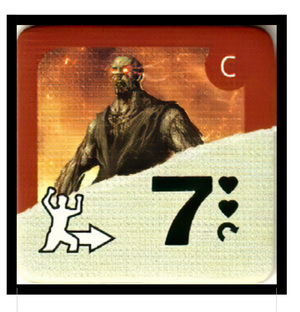
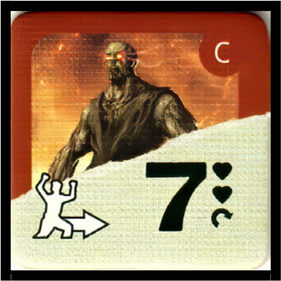
Opciones, rutas al mapa, vuelo del Súper Zed y fixes de movimiento
Mejoras: menú Opciones con arte alternativo; aviso y vuelo animado del Súper Zed; seis botones de ruta bajo el mapa.
Fixes: fichas Súper Zed sin borde blanco; «Han picado» después de las habilidades; cámara en la lluvia y en la elección de unidad. BUILD_TIME y CHANGELOG.

diff --git a/js/ui.js b/js/ui.js
@@ -47,7 +47,7 @@ const ui = {
     window.addEventListener('resize', () => this.arrange());
     $('evimg').addEventListener('click', () => { if (G.event) ui.waitAck(G.event.name, G.event.txt.join('<br>'), 'assets/cartas/e_' + G.event.id + '.jpg', 'e:' + G.event.id); });
     $('fastChk').addEventListener('change', e => { ui.fast = e.target.checked; if (ui.fast) ui.release(); });
-    $('soundBtn').addEventListener('click', () => ui.showSound());
+    $('optionsBtn').addEventListener('click', () => ui.showOptions());
     $('logBtn').addEventListener('click', () => downloadLog());
     $('camChk').addEventListener('change', e => { ui.camOn = e.target.checked; if (!ui.camOn) ui.release(); });
     $('cancelBtn').addEventListener('click', () => ui.cancelMode());
@@ -96,7 +96,8 @@ const ui = {
   setMap(board) { this.board = board; this.mapH = board === 'B' ? 1541 : 1545; this.canvas.height = this.mapH; this.fit(); },
   fit() {
     const w = $('mapwrap'); if (!w) return;
-    const k = Math.max(0.1, Math.min((w.clientWidth - 12) / 2000, (w.clientHeight - 12) / this.mapH));
+    const rb = $('routebtns'), bh = rb ? rb.offsetHeight + 6 : 0;
+    const k = Math.max(0.1, Math.min((w.clientWidth - 12) / 2000, (w.clientHeight - 12 - bh) / this.mapH));
     this.canvas.style.width = Math.floor(2000 * k) + 'px'; this.canvas.style.height = Math.floor(this.mapH * k) + 'px';
     if (this.applyView) { this.clampView(); if (!this.camZoom || this.camZoom <= 1) this.applyView(); }
   },
@@ -428,6 +429,40 @@ const ui = {
     });
   },
   confirm(text) { return this.choose({ title: 'Confirmar', text, options: [{ label: 'Sí', value: true }, { label: 'No', value: false }] }); },
+  /* Súper Zed: la ficha aparece en grande en el centro con su nombre y su efecto (OK). Al pulsar OK vuela a su espacio y solo entonces se coloca.
+     Con «Animaciones rápidas» no vuela: se muestra la información igual y se coloca al pulsar OK. */
+  superIntro(zed, target) {
+    return new Promise(res => {
+      const d = SUPER_ZEDS[zed.key] || { name: zed.name, txt: '', img: null };
+      const ov = document.createElement('div'); ov.className = 'superfx';
+      ov.innerHTML = '<div class="sfx-tok"><img src="assets/tokens/' + (d.img || 'sz_lobo') + '.png" alt=""></div>' +
+        '<div class="sfx-info" hidden><h2>' + d.name + '</h2><p>' + d.txt + '</p><button class="primary" id="sfxOk">OK</button></div>';
+      document.body.appendChild(ov);
+      const tok = ov.querySelector('.sfx-tok'), info = ov.querySelector('.sfx-info');
+      setTimeout(() => { info.hidden = false; }, 900);
+      const finish = () => { ov.remove(); res(); };
+      $('sfxOk').onclick = () => {
+        info.hidden = true;
+        const dest = target && G.spaces[target];
+        if (this.fast || !dest) { finish(); return; }
+        /* Vuelo por fotogramas: la ficha va al espacio de destino donde esté en pantalla en cada fotograma. El mapa no hace zoom ni se mueve. */
+        const cv = this.canvas, dur = 1600, ease = t => t < .5 ? 4 * t * t * t : 1 - Math.pow(-2 * t + 2, 3) / 2;
+        const live = () => { const r = cv.getBoundingClientRect(), k = r.width / cv.width; return { x: r.left + dest.x * k, y: r.top + dest.y * k }; };
+        const cx = window.innerWidth / 2, cy = window.innerHeight / 2;
+        tok.style.animation = 'none';
+        const t0 = performance.now();
+        const step = now => {
+          const t = Math.min(1, (now - t0) / dur), e = ease(t), p = live();
+          const x = cx + (p.x - cx) * e, y = cy + (p.y - cy) * e - Math.sin(Math.PI * e) * 70;
+          tok.style.transform = 'translate(' + (x - cx) + 'px,' + (y - cy) + 'px) scale(' + (1 - .86 * e) + ')';
+          ov.style.background = 'rgba(0,0,0,' + (.82 * (1 - e)).toFixed(3) + ')';
+          if (t < 1) requestAnimationFrame(step);
+          else finish();
+        };
+        requestAnimationFrame(step);
+      };
+    });
+  },
   waitAck(title, text, img, spec) {
     return new Promise(res => {
       const im = img ? '<img src="' + img + '" alt="" ' + (spec ? 'data-zoom="' + spec + '"' : '') + '>' : '';
@@ -442,6 +477,8 @@ const ui = {
       const b = this._modal('<h2>Elige una unidad</h2><p>' + text + '</p><div class="pickhint">Toca una opción (o la unidad en el mapa) para verla; pulsa Aceptar para confirmar.</div><div class="pickopts"></div><div class="opts"><button class="primary" id="pkok" disabled>Aceptar</button>' + (cancel ? '<button id="pkcancel">Cancelar</button>' : '') + '</div>', 'pickpanel');
       $('modal').classList.add('pick');
       const box = b.querySelector('.pickopts'); let cur = null, focused = false;
+      /* La cámara va a la primera unidad en cuanto aparece la pregunta, sin esperar a que se elija en la lista. */
+      const first = units.find(u => u.space); if (first) { this.focus(first.space); focused = !!(this.camOn && !this.fast); }
       const done = id => { this._pick = null; this.hl = null; if (focused) this.release(); this._close(); this.redraw(); res(id); };
       const select = id => {
         cur = id; this.hl = id; $('pkok').disabled = false;
@@ -666,15 +703,11 @@ const ui = {
       $('vol_' + k).oninput = e => { $('pct_' + k).textContent = e.target.value + '%'; Sound.set(k, { vol: e.target.value / 100 }); };
     });
   },
-  showSound() {
-    this._modal('<h2>Sonido</h2><p>Cada canal tiene su propio interruptor y volumen.</p>' + this._soundRows() + '<div class="opts"><button class="primary" id="sndOk">Cerrar</button></div>', 'sound');
-    this._bindSound(); $('sndOk').onclick = () => ui._close();
-  },
-  /* Menú de opciones de la portada: sonido y arte alternativo. */
+  /* Menú Opciones de la portada (antes «Sonido»): sonido y arte alternativo. */
   showOptions() {
     this._modal('<h2>Opciones</h2><h3 class="oph">Sonido</h3><p>Cada canal tiene su propio interruptor y volumen.</p>' + this._soundRows() +
       '<h3 class="oph">Arte</h3><div class="snd"><label class="chk"><input type="checkbox" id="optArt"' + (Opciones.artAlt ? ' checked' : '') + '> Usar arte alternativo</label></div>' +
-      '<p class="ophint">Las ilustraciones alternativas de cartas y fichas se aplicarán cuando estén disponibles.</p>' +
+      '<p class="ophint">Cambia las ilustraciones de cartas, fichas y obituario por el arte alternativo.</p>' +
       '<div class="opts"><button class="primary" id="sndOk">Cerrar</button></div>', 'sound');
     this._bindSound();
     $('optArt').onchange = e => { Opciones.set({ artAlt: e.target.checked }); loadAltArt().then(() => ui.redraw()); };

diff --git a/js/phases.js b/js/phases.js
@@ -57,11 +57,20 @@ async function mineAttack(dest, movers) {
   LOG('¡Campo de Minas! Ataque de Fuerza ' + str + ' (' + (a + b) + '): ' + hits + ' Impacto(s).', 'good');
   s.mine = s.mine === 1 ? 2 : 0; await applyZedHits(movers.filter(z => z.space === dest), hits);
 }
+/* Carta «¡Sí! Han picado…»: cancela la activación del grupo que está en `from`. Solo se llama cuando las habilidades ya no lo han detenido,
+   porque la carta es el último recurso (las habilidades son gratis). */
+async function playPicado(from) {
+  if (!G.hand.includes('picado')) return false;
+  const gr = zedsAt(from).filter(z => !z.moved); if (!gr.length) return false;
+  const v = await UI.askZeds({ title: '«¡Sí! Han picado…»', text: '¿Cancelas la activación de ' + zedGroupName(gr, from) + '?', spaces: [from], options: [{ label: 'Cancelar', value: 'y' }, { label: 'No', value: 'n' }] }); if (v === 'y') { G.hand.splice(G.hand.indexOf('picado'), 1); zenPlayed(); UI.updateHand(); if (d6() <= 3) G.destDiscard.push('picado'); else G.hand.push('picado'); UI.updateHand(); gr.forEach(z => z.moved = true); { const hz = gr.find(z => z.hits > 0) || gr.find(z => z.flipped); if (hz) { const bf = { flipped: hz.flipped, hits: hz.hits }; if (hz.hits > 0) hz.hits--; else { hz.flipped = false; hz.hits = Math.max(0, (hz.hf || 1) - 1); } LOG(hz.name + ' recupera 1 Impacto.', 'bad'); if (UI.fxHeal) UI.fxHeal(hz, bf); } } return true; }
+  return false;
+}
 async function moveGroup(movers, from, opts) {
   opts = opts || {};
   movers = movers.filter(z => z.space === from && G.units[z.id]); if (!movers.length) return { moved: false };
   const dest = nextToward(from);
   if (dest === 'C') {
+    if (opts.picado && await playPicado(from)) return { moved: false };
     const cl = alive('clarin');
     if (cl && plAt('C').length) {
       LOG('¡Los Zeds llegan al Centro! El Mensajero del Clarín los obliga a luchar.', 'bad');
@@ -91,6 +100,8 @@ async function moveGroup(movers, from, opts) {
   if (perimeterBlocks(from, dest)) { const r = await rollShown('Perímetro Defensivo de Kingman', r => r >= 5 ? '<b>' + r + '</b>: los Zeds se detienen' : '<b>' + r + '</b>: los Zeds avanzan (necesita 5-6)'); if (r >= 5) { LOG('El Perímetro Defensivo de Kingman detiene a los Zeds (' + r + ').', 'good'); return { moved: false }; } }
   // Ladrido de Pepinillos
   const pep = unitsAt(from).find(u => u.key === 'pepinillos'); if (pep && !isInit(from)) { const r = await rollShown('Ladrido de Pepinillos', r => r >= 4 ? '<b>' + r + '</b>: los Zeds se detienen' : '<b>' + r + '</b>: los Zeds avanzan (necesita 4-6)'); if (r >= 4) { LOG('El ladrido de Pepinillos detiene a los Zeds (' + r + ').', 'good'); return { moved: false }; } }
+  // La carta «Han picado» va después de las habilidades de arriba: solo se juega si el grupo de verdad iba a avanzar.
+  if (opts.picado && await playPicado(from)) return { moved: false };
   // Evento de Adiós: Barricada
   if (sp(from).bar === 1) { sp(from).bar = 0; LOG('¡Los Zeds destruyen la Barricada de ' + spaceLabel(from) + '!', 'bad'); }
   const leavingChaos = sp(from).chaos > 0;
@@ -135,7 +146,7 @@ async function stepSpace(id, cer, second) {
   }
   let guard = 0, cur = group;
   while (cur.length && !G.over && guard++ < 8) {
-    const from = cur[0].space; const r = await moveGroup(cur, from);
+    const from = cur[0].space; const r = await moveGroup(cur, from, { picado: !cer });
     if (!r.moved) break;
     cur = [];
     const supersWon = (r.go || []).filter(z => z.key === 'berserker' && z.space === r.dest && r.won);
@@ -156,7 +167,7 @@ async function cryptExit(z, cer) {
       putUnit(z, t); z.moved = true; if (plAt(t).length) await zedAttack([z], t, from); return;
     }
   }
-  await moveGroup([z], from);
+  await moveGroup([z], from, { picado: !cer });
 }
 async function activateRoute(r, cer) {
   if (G.over) return;
@@ -168,10 +179,6 @@ async function activateRoute(r, cer) {
   for (const z of zs) if (z.key === 'reanimador') { if (z.hits > 0) z.hits--; else if (z.flipped) { z.flipped = false; z.hits = 2; } }
   const L = lastOf(r);
   for (let i = L; i >= 0 && !G.over; i--) {
-    if (G.hand.includes('picado') && !cer) {
-      const gr = zedsAt(r + i).filter(z => !z.moved);
-      if (gr.length) { const v = await UI.askZeds({ title: '«¡Sí! Han picado…»', text: '¿Cancelas la activación de ' + zedGroupName(gr, r + i) + '?', spaces: [r + i], options: [{ label: 'Cancelar', value: 'y' }, { label: 'No', value: 'n' }] }); if (v === 'y') { G.hand.splice(G.hand.indexOf('picado'), 1); zenPlayed(); UI.updateHand(); if (d6() <= 3) G.destDiscard.push('picado'); else G.hand.push('picado'); UI.updateHand(); gr.forEach(z => z.moved = true); { const hz = gr.find(z => z.hits > 0) || gr.find(z => z.flipped); if (hz) { const bf = { flipped: hz.flipped, hits: hz.hits }; if (hz.hits > 0) hz.hits--; else { hz.flipped = false; hz.hits = Math.max(0, (hz.hf || 1) - 1); } LOG(hz.name + ' recupera 1 Impacto.', 'bad'); if (UI.fxHeal) UI.fxHeal(hz, bf); } } continue; } }
-    }
     if (alreadyHas('distraccion')) {
       const gr = zedsAt(r + i).filter(z => !z.moved);
       const civs = gr.length ? adjacentIds(r + i).filter(id => G.spaces[id] && isRouteSp(id)).flatMap(id => unitsAt(id).filter(x => x.type === 'civ' && !x.ecg)) : [];

diff --git a/js/game.js b/js/game.js
@@ -172,7 +172,7 @@ async function DEST_FX(id, route) {
     case 'inventarios': { const f = r => r <= 2 ? 2 : r <= 5 ? 1 : 0; const [a, b] = await UI.rollSimple('Inventarios amañados', 2, d => 'Suministros −' + f(d[0]) + ' · Munición −' + f(d[1])); G.supplies = Math.max(0, G.supplies - f(a)); G.ammo = Math.max(0, G.ammo - f(b)); LOG('Inventarios amañados: Suministros ' + f(a) + ' / Munición ' + f(b) + '.', 'bad'); UI.updateStats(); break; }
     case 'llamamiento': { for (const r of G.routes) for (let i = 1; i <= lastOf(r); i++) { const s = sp(r + i); if (s.chaos) { const z = makeZed(); if (!z) break; if (z.full < spaceNum(r + i)) await placeZedAt(r + i, 'Llamamiento zombi', z); else returnZed(z); } } break; }
     case 'puente': { const id2 = 'F6'; if (G.spaces[id2]) { sp(id2).bridge = 'down'; LOG('El puente colgante se derrumba.', 'bad'); } break; }
-    case 'lluvia': { G.turn.rain = true; for (const z of routeZeds('M')) { const r = await rollShown('Lluvia: Zed en ' + spaceLabel(z.space), v => v <= 2 ? '<b>' + v + '</b>: avanza un espacio' : v === 6 ? '<b>6</b>: retrocede un espacio' : '<b>' + v + '</b>: se queda'); if (r <= 2) { const n = nextToward(z.space); if (n !== 'C' && zedsAt(n).length < 2) { putUnit(z, n); await handleArrival([z], n, z.space); } } else if (r === 6) { const p = prevToward(z.space); if (p) putUnit(z, p); } } break; }
+    case 'lluvia': { G.turn.rain = true; for (const z of routeZeds('M')) { /* Antes de tirar, se enseña el Zed: cámara sobre su espacio y destello. */ UI.focus(z.space, 1.7); UI.pulseSpace(z.space, '#7fb8ff'); UI.redraw(); await UI.settle(); const r = await rollShown('Lluvia: Zed en ' + spaceLabel(z.space), v => v <= 2 ? '<b>' + v + '</b>: avanza un espacio' : v === 6 ? '<b>6</b>: retrocede un espacio' : '<b>' + v + '</b>: se queda'); if (r <= 2) { const n = nextToward(z.space); if (n !== 'C' && zedsAt(n).length < 2) { putUnit(z, n); await handleArrival([z], n, z.space); } } else if (r === 6) { const p = prevToward(z.space); if (p) putUnit(z, p); } } break; }
     case 'olvidado': { for (const u of allUnits(x => x.type === 'refugee' && isRouteSp(x.space))) { const p = prevToward(u.space); if (p) { putUnit(u, p); if (zedsAt(p).length) await devourSoft(zedsAt(p), p); } } break; }
     case 'techo': { const n = await rollShown('El techo del Túnel: ¿qué espacio se sepulta?', v => 'Queda sepultado el espacio n.º ' + v + ' del Túnel'); const idx = G.routes.includes('T') ? lastOf('T') - n : null; if (idx === null || idx < 1) break; const id2 = 'T' + idx; G.turn.block.push(id2); for (const u of unitsAt(id2).filter(x => isFighter(x))) { await hitPlayer(u, 1); const tgt = { 6: 'A4', 5: 'F3', 4: 'M3', 3: 'B4' }[n]; if (u.space === id2) { if (tgt && playerRoom(tgt, u)) putUnit(u, tgt); else putUnit(u, nextToward(id2)); } } LOG('El techo del Túnel se derrumba en el espacio n.º ' + n + '.', 'bad'); break; }
     case 'planes': { const dr = await drawDestiny(); if (dr) { for (let i = 1; i <= lastOf(dr.route); i++) if (sp(dr.route + i).chaos && (await rollShown('Planes maníacos: ' + spaceLabel(dr.route + i), v => v <= 3 ? '<b>' + v + '</b>: se coloca un Zed' : '<b>' + v + '</b>: no pasa nada')) <= 3) await placeZedAt(dr.route + i, 'Planes maníacos'); await resolveTwistInner(dr); } for (const r of G.routes) await placeZedInitial(r); break; }

diff --git a/js/mapzoom.js b/js/mapzoom.js
@@ -16,7 +16,7 @@ Object.assign(ui, {
     cv.style.transform = v.z > 1.001 ? 'translate(' + v.tx + 'px,' + v.ty + 'px) scale(' + v.z + ')' : '';
     const r = $('zReset'); if (r) r.classList.toggle('on', v.z > 1.001);
   },
-  release() { this.camZoom = 1; this.applyView(); },
+  release() { this.camZoom = 1; this.resetView(); },
   /* Cambia el zoom manteniendo fijo el punto (px, py), en coordenadas del contenedor del mapa. */
   zoomAt(factor, px, py) {
     const v = this.view, cv = this.canvas, w = $('mapwrap'); if (this.camZoom > 1) this.camZoom = 1;
@@ -26,12 +26,28 @@ Object.assign(ui, {
     v.z = nz; v.tx = px - cv.offsetLeft - nz * lx; v.ty = py - cv.offsetTop - nz * ly;
     this.clampView(); this.applyView();
   },
+  /* Acerca el mapa para ver una ruta entera (o el Centro, con r = 'C'). Usa la misma vista que el zoom del usuario. */
+  zoomToRoute(r) {
+    const cv = this.canvas, w = $('mapwrap'); if (!cv || !w || !G.spaces) return;
+    /* Centro: el Centro, los espacios n.º 1 de cada ruta (los que tocan el Centro) y el Hospital, las Oficinas y el Laboratorio. */
+    const ids = r === 'C' ? Object.values(G.spaces).filter(s => s.id === 'C' || (s.route && spaceNum(s.id) === 1) || ['bed', 'office', 'lab'].includes(s.kind)).map(s => s.id) : Object.values(G.spaces).filter(s => s.route === r).map(s => s.id);
+    if (!ids.length) { UI.toast('Esa ruta no está en esta partida', '#ffd54a', 1400); return; }
+    const xs = ids.map(id => G.spaces[id].x), ys = ids.map(id => G.spaces[id].y), pad = 70;
+    const minX = Math.min(...xs) - pad, maxX = Math.max(...xs) + pad, minY = Math.min(...ys) - pad, maxY = Math.max(...ys) + pad;
+    const k = cv.clientWidth / cv.width, W = w.clientWidth, H = w.clientHeight;
+    const z = Math.max(1, Math.min(this.MAXZ, W / ((maxX - minX) * k), H / ((maxY - minY) * k)));
+    const cx = (minX + maxX) / 2 * k, cy = (minY + maxY) / 2 * k;
+    this.camZoom = 1; const v = this.view;
+    v.z = z; v.tx = W / 2 - cv.offsetLeft - cx * z; v.ty = H / 2 - cv.offsetTop - cy * z;
+    this.clampView(); this.applyView();
+  },
   resetView() { this.view.z = 1; this.view.tx = 0; this.view.ty = 0; this.clampView(); this.applyView(); },
   initMapZoom() {
     const cv = this.canvas, wrap = $('mapwrap'), self = this, ptrs = new Map();
     const local = e => { const r = wrap.getBoundingClientRect(); return { x: e.clientX - r.left, y: e.clientY - r.top }; };
     const still = () => { cv.style.transition = 'none'; };
     const live = () => { cv.style.transition = ''; };
+    document.querySelectorAll('#routebtns button').forEach(b => b.onclick = () => self.zoomToRoute(b.dataset.route));
     $('zIn').onclick = () => self.zoomAt(1.5); $('zOut').onclick = () => self.zoomAt(1 / 1.5); $('zReset').onclick = () => self.resetView();
     cv.addEventListener('wheel', e => { e.preventDefault(); const p = local(e); self.zoomAt(Math.exp(-e.deltaY * (e.ctrlKey ? 0.01 : 0.0015)), p.x, p.y); }, { passive: false });
     /* Tras arrastrar no debe dispararse el clic sobre una unidad o espacio. */

diff --git a/style.css b/style.css
@@ -17,7 +17,7 @@ button.primary{background:#7a2a1b;border-color:#c0543f}
 button.primary:hover:not(:disabled){background:#9a3822}
 .chk{font-size:12px;color:var(--mut);display:flex;gap:5px;align-items:center}
 main{flex:1;display:flex;min-height:0}
-#mapwrap{flex:1;min-width:0;min-height:0;overflow:hidden;position:relative;display:flex;align-items:center;justify-content:center;padding:6px;background:#0a0806}
+#mapwrap{flex:1;min-width:0;min-height:0;overflow:hidden;position:relative;display:flex;flex-direction:column;align-items:center;justify-content:center;padding:6px;background:#0a0806}
 #map{border:1px solid var(--line);cursor:default;display:block}
 #banner{position:absolute;top:14px;left:50%;transform:translateX(-50%);background:rgba(10,8,6,.92);border:1px solid var(--gold);padding:8px 16px;border-radius:20px;color:var(--gold);font-weight:700;pointer-events:none;box-shadow:0 4px 18px #000;z-index:5}
 #tip{position:absolute;background:rgba(10,8,6,.95);border:1px solid var(--line);padding:5px 9px;border-radius:5px;font-size:12px;pointer-events:none;z-index:6;max-width:240px}
@@ -390,3 +390,18 @@ body:has(#title.bgnew) #modalbox.setup .opts{margin-top:6px}
 
 .obchecks{display:grid;grid-template-columns:repeat(auto-fill,minmax(170px,1fr));gap:2px 10px;max-height:38vh;overflow:auto;margin:6px 0;padding:6px;border:1px solid var(--line);border-radius:6px;background:var(--bg)}
 .obck{font-size:13px;cursor:pointer;padding:2px 0;white-space:nowrap}.obck input{margin-right:4px}
+
+/* Súper Zed: ficha en grande al aparecer y vuelo hasta su espacio (ui.js superIntro). */
+.superfx{position:fixed;inset:0;z-index:60;background:rgba(0,0,0,.82);display:flex;flex-direction:column;align-items:center;justify-content:center;padding:16px;text-align:center}
+.superfx .sfx-tok{animation:sfxGrow .9s cubic-bezier(.2,.7,.2,1) both;will-change:transform,opacity}
+.superfx .sfx-tok img{width:min(64vw,340px);height:auto;filter:drop-shadow(0 0 22px rgba(255,80,60,.55))}
+.superfx .sfx-info{max-width:min(92vw,460px);margin-top:14px;animation:sfxFade .6s ease-out both}
+.superfx .sfx-info h2{margin:0 0 8px;color:var(--gold)}
+.superfx .sfx-info p{margin:0 0 14px;line-height:1.4}
+@keyframes sfxGrow{from{transform:scale(.2);opacity:0}to{transform:scale(1);opacity:1}}
+@keyframes sfxFade{from{opacity:0;transform:translateY(8px)}to{opacity:1;transform:none}}
+
+/* Botones de ruta debajo del mapa: cada uno acerca el mapa a esa ruta (mapzoom.js zoomToRoute). */
+#routebtns{display:flex;flex-wrap:wrap;gap:6px;justify-content:center;padding-top:6px;position:relative;z-index:3}
+#routebtns button{font-size:12px;padding:4px 10px;border:1px solid var(--line);border-radius:12px;background:rgba(10,8,6,.9);color:var(--ink);cursor:pointer}
+#routebtns button:hover{border-color:var(--gold);color:var(--gold)}

diff --git a/js/engine.js b/js/engine.js
@@ -165,6 +165,7 @@ async function placeZedAt(id, why, zed) {
     target = zedBack(id);
     if (target === null) { target = firstOpenInitial(); if (!target) { returnZed(zed); LOG('No hay sitio para un Zed nuevo.'); return null; } }
   }
+  if (zed.type === 'super') await UI.superIntro(zed, target);
   if (!UI.fast) Sfx.zed(); putUnit(zed, target); UI.pulseSpace(target, '#ff4a3a'); UI.toast('Nuevo Zed en ' + spaceLabel(target), '#ff4a3a', 1100);
   LOG('Nuevo ' + (zed.type === 'super' ? 'Súper Zed (' + zed.name + ')' : 'Zed (' + zed.full + ')') + ' en ' + spaceLabel(target) + (why ? ' — ' + why : '') + '.', 'zed');
   UI.redraw();
@@ -178,6 +179,7 @@ async function placeZedInitial(r, zed) {
   let t = r + '0';
   if (normalZedsAt(t).length >= zedCap(t)) t = firstOpenInitial();
   if (!t) { returnZed(zed); LOG('Todos los espacios Iniciales están llenos.'); return null; }
+  if (zed.type === 'super') await UI.superIntro(zed, t);
   UI.focus(t, 1.7); putUnit(zed, t); UI.pulseSpace(t, '#ff4a3a'); UI.toast('Nuevo Zed en ' + spaceLabel(t), '#ff4a3a', 1100); LOG('Nuevo ' + (zed.type === 'super' ? 'Súper Zed' : 'Zed') + ' (' + zed.full + ') en ' + spaceLabel(t) + '.', 'zed'); UI.redraw(); await UI.settle(); return zed;
 }
 function alreadyHas(rid) { return G.res && G.res.cur && G.res.cur.id === rid; }

diff --git a/index.html b/index.html
@@ -19,7 +19,7 @@
     <nav>
       <button id="cancelBtn" class="cancel" hidden>✕ Cancelar acción</button>
       <label class="chk"><input type="checkbox" id="camChk" checked> Cámara guiada</label>
-      <button id="soundBtn">Sonido</button>
+      <button id="optionsBtn">Opciones</button>
       <button id="logBtn" title="Descargar el registro de la partida (para depurar)">Registro</button>
       <label class="chk"><input type="checkbox" id="fastChk"> Animaciones rápidas</label>
       <button id="rulesBtn">Reglas</button>
@@ -36,6 +36,7 @@
     </aside>
     <div id="mapwrap">
       <canvas id="map" width="2000" height="1545"></canvas>
+      <div id="routebtns" title="Acerca el mapa a una ruta"><button data-route="B">Bosque</button><button data-route="M">Montaña</button><button data-route="A">Autovía</button><button data-route="F">Afueras</button><button data-route="T">Túnel</button><button data-route="C">Centro</button></div>
       <div id="banner" hidden></div>
       <div id="toast"></div>
       <div id="tip" hidden></div>

diff --git a/js/anim.js b/js/anim.js
@@ -58,9 +58,11 @@ Object.assign(ui, {
     const ol = cv.offsetLeft, ot = cv.offsetTop, cw = cv.clientWidth, ch = cv.clientHeight, ww = wrap.clientWidth, wh = wrap.clientHeight;
     let tx = ww / 2 - ol - px * zoom, ty = wh / 2 - ot - py * zoom;
     tx = Math.min(-ol, Math.max(ww - ol - cw * zoom, tx)); ty = Math.min(-ot, Math.max(wh - ot - ch * zoom, ty));
+    /* Se guarda también en la vista del zoom del usuario (mapzoom.js) para que el zoom y el arrastre sigan desde aquí. */
+    this.view.z = zoom; this.view.tx = tx; this.view.ty = ty;
     cv.style.transform = 'translate(' + tx + 'px,' + ty + 'px) scale(' + zoom + ')'; this.camZoom = zoom;
   },
-  release() { this.canvas.style.transform = ''; this.camZoom = 1; },
+  release() { this.camZoom = 1; this.resetView(); },
 
   /* ---- avisos ---- */
   toast(text, color, ms, big) {

diff --git a/js/opciones.js b/js/opciones.js
@@ -1,6 +1,6 @@
 /* Opciones del juego que no son de sonido (el sonido está en sound.js). Se guardan en este navegador.
-   artAlt: usar el arte alternativo (ilustraciones nuevas de personajes). Por ahora solo se guarda la preferencia;
-   cuando exista el arte alternativo, las imágenes consultarán Opciones.artAlt para elegir qué cargar. */
+   artAlt: usar el arte alternativo (assets/arte_alt): cartas, fichas y obituario consultan Opciones.artAlt para elegir qué cargar.
+   Se cambia desde el menú Opciones de la portada. */
 'use strict';
 
 const Opciones = {

diff --git a/js/version.js b/js/version.js
@@ -1,2 +1,2 @@
 /* Fecha y hora de la última build (hora de Madrid). Se actualiza con cada cambio publicado. */
-const BUILD_TIME = '2026-10-11 19:36';
+const BUILD_TIME = '2026-10-12 11:04';

diff --git a/CHANGELOG.md b/CHANGELOG.md
@@ -2,6 +2,19 @@
 
 Registro de cambios por publicación (push a `main`). Lo más reciente, arriba. Cada entrada lleva la misma fecha y hora que `BUILD_TIME` de `js/version.js`.
 
+## 2026-10-12 11:04
+
+### Mejoras
+- **Opciones:** el menú «Sonido» de la portada pasa a llamarse «Opciones». Mantiene los canales de sonido y añade el interruptor «Usar arte alternativo» para cartas, fichas y obituario.
+- **Súper Zed:** al aparecer, la ficha se muestra en grande en el centro con su nombre y su efecto (botón OK). Al pulsar OK vuela hasta su espacio con un recorrido por fotogramas de 1,6 s, y solo entonces se coloca.
+- **Rutas:** seis botones debajo del mapa (Bosque, Montaña, Autovía, Afueras, Túnel y Centro) acercan el mapa a esa ruta. Centro incluye el Centro, los espacios n.º 1 y las camas del Hospital.
+
+### Fixes
+- **Súper Zed:** las 18 fichas se recortan y quedan transparentes, sin el borde blanco.
+- **«¡Sí! Han picado…»:** la carta solo se ofrece si el grupo de Zeds iba a avanzar. Se pregunta después de las habilidades gratuitas (zapatillas de Porter, Perímetro de Kingman, Ladrido de Pepinillos y No Pasar).
+- **Lluvia torrencial:** la cámara enseña cada Zed antes de tirar el dado.
+- **Cámara:** al abrir una elección de unidad, la cámara se centra en la primera unidad.
+
 ## 2026-10-11 19:36
 
 ### Fixes
